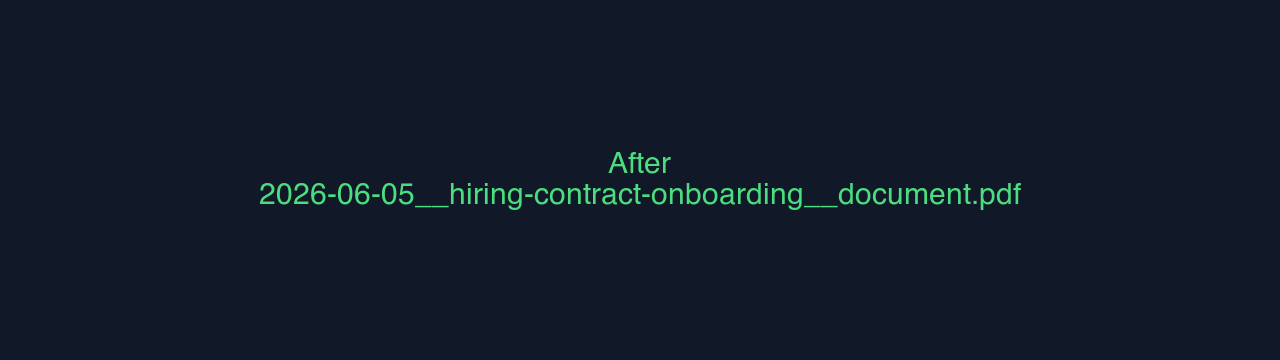
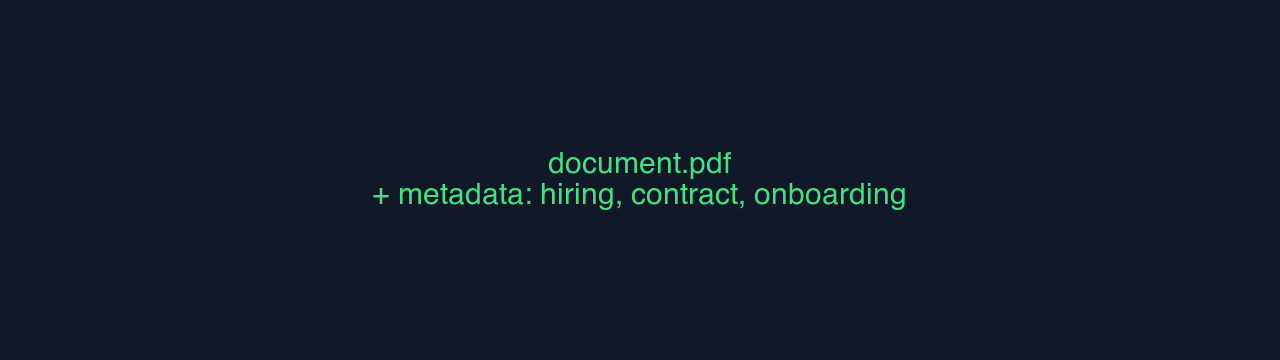
Make docs enrich-only by default and never touch good filenames.
Screenshots still rename; docs only get metadata on obvious junk names, skip when tags are weak or metadata already exists, and leave PDF Keywords untouched when set.

Changed region(s): [[0.1875, 0.4889, 0.8125, 0.5806], [0.4062, 0.4278, 0.5938, 0.4889]]

diff --git a/bin/auto_file_labeler.py b/bin/auto_file_labeler.py
@@ -44,6 +44,9 @@ DEFAULT_CONFIG = {
     "timeout": 30,
     "recursive": False,
     "process_docs": True,
+    "doc_rename": "never",
+    "doc_finder_tags": False,
+    "doc_pdf_keywords": True,
 }
 
 IMAGE_EXTS = {".png", ".jpg", ".jpeg", ".gif", ".webp", ".heic"}
@@ -59,9 +62,10 @@ MAX_IMAGE_OCR_BYTES = 50 * 1024 * 1024
 MAX_DOC_TEXT_BYTES = 10 * 1024 * 1024
 MAX_DOC_EXCERPT_CHARS = 2000
 GENERIC_DOC_STEMS = {
-    "document", "untitled", "scan", "scanned", "file", "download", "notes",
-    "new", "copy", "temp", "draft", "export", "report", "invoice", "receipt",
+    "document", "untitled", "scan", "scanned", "file", "download",
+    "new", "copy", "temp", "draft",
 }
+FINDER_TAG_XATTR = "com.apple.metadata:_kMDItemUserTags"
 MAX_DOCX_XML_BYTES = 2 * 1024 * 1024
 REQUIRED_BINARIES = {
     "magick": "/opt/homebrew/bin/magick",
@@ -199,6 +203,30 @@ def validate_config(cfg: dict) -> dict:
         else:
             log(f"warning: invalid config process_docs, coerced to {coerced}")
             cfg["process_docs"] = coerced
+
+    doc_rename = cfg.get("doc_rename")
+    if doc_rename not in {"never", "generic_only"}:
+        log("warning: invalid config doc_rename, using default")
+        cfg["doc_rename"] = DEFAULT_CONFIG["doc_rename"]
+
+    for flag in ("doc_finder_tags", "doc_pdf_keywords"):
+        value = cfg.get(flag)
+        if not isinstance(value, bool):
+            coerced = None
+            if isinstance(value, str):
+                lowered = value.strip().lower()
+                if lowered in {"true", "1", "yes", "on"}:
+                    coerced = True
+                elif lowered in {"false", "0", "no", "off"}:
+                    coerced = False
+            elif isinstance(value, int) and value in (0, 1):
+                coerced = bool(value)
+            if coerced is None:
+                log(f"warning: invalid config {flag}, using default")
+                cfg[flag] = DEFAULT_CONFIG[flag]
+            else:
+                log(f"warning: invalid config {flag}, coerced to {coerced}")
+                cfg[flag] = coerced
 
     return cfg
 
@@ -599,6 +627,84 @@ def write_xattrs(path: Path, labels: list[str]) -> bool:
     return True
 
 
+def already_enriched(path: Path) -> bool:
+    try:
+        proc = subprocess.run(
+            [resolve_bin("xattr"), "-p", "user.floomlens.labels", str(path)],
+            check=False, capture_output=True, text=True, timeout=5,
+        )
+        return proc.returncode == 0 and bool(proc.stdout.strip())
+    except (subprocess.SubprocessError, OSError, FileNotFoundError):
+        return False
+
+
+def exiftool_field(path: Path, field: str) -> str:
+    try:
+        proc = subprocess.run(
+            [resolve_bin("exiftool"), f"-{field}", "-s3", str(path)],
+            check=False, capture_output=True, text=True, timeout=10,
+        )
+        if proc.returncode == 0:
+            return proc.stdout.strip()
+    except (subprocess.SubprocessError, OSError, FileNotFoundError):
+        pass
+    return ""
+
+
+def write_pdf_keywords(path: Path, labels: list[str], cfg: dict) -> bool:
+    if not cfg.get("doc_pdf_keywords", True) or path.suffix.lower() != ".pdf":
+        return True
+    if exiftool_field(path, "PDF:Keywords") or exiftool_field(path, "Subject"):
+        return True
+    joined = ", ".join(labels)
+    try:
+        proc = subprocess.run(
+            [
+                resolve_bin("exiftool"), "-q", "-overwrite_original",
+                f"-PDF:Keywords={joined}", f"-Subject={joined}", str(path),
+            ],
+            check=False, capture_output=True, timeout=10,
+        )
+        if proc.returncode != 0:
+            err = proc.stderr.decode("utf-8", errors="replace").strip()[:200] or "unknown error"
+            log(f"pdf keywords skipped for {path.name}: exit {proc.returncode}: {err}")
+    except (subprocess.SubprocessError, OSError, FileNotFoundError) as e:
+        log(f"pdf keywords skipped for {path.name}: {type(e).__name__}: {e}")
+    return True
+
+
+def write_finder_tags(path: Path, labels: list[str], cfg: dict) -> bool:
+    if not cfg.get("doc_finder_tags", False):
+        return True
+    tag_bin = shutil.which("tag")
+    if not tag_bin:
+        return True
+    try:
+        proc = subprocess.run(
+            [tag_bin, "-a", *labels, str(path)],
+            check=False, capture_output=True, text=True, timeout=10,
+        )
+        if proc.returncode != 0:
+            err = proc.stderr.strip()[:200] or "unknown error"
+            log(f"finder tags skipped for {path.name}: exit {proc.returncode}: {err}")
+    except (subprocess.SubprocessError, OSError, FileNotFoundError) as e:
+        log(f"finder tags skipped for {path.name}: {type(e).__name__}: {e}")
+    return True
+
+
+def write_doc_metadata(path: Path, labels: list[str], cfg: dict) -> bool:
+    if not write_xattrs(path, labels):
+        return False
+    write_pdf_keywords(path, labels, cfg)
+    write_finder_tags(path, labels, cfg)
+    index_spotlight(path)
+    return True
+
+
+def should_rename_doc(path: Path, cfg: dict) -> bool:
+    return cfg.get("doc_rename") == "generic_only" and is_generic_document_name(path)
+
+
 def unique_path(path: Path) -> Path:
     if not path.exists():
         return path
@@ -611,8 +717,11 @@ def unique_path(path: Path) -> Path:
         i += 1
 
 
-def maybe_rename(path: Path, labels: list[str], cfg: dict) -> Path:
-    if not cfg.get("rename", True):
+def maybe_rename(path: Path, labels: list[str], cfg: dict, *, kind: str = "image") -> Path:
+    if kind == "doc":
+        if not should_rename_doc(path, cfg):
+            return path
+    elif not cfg.get("rename", True):
         return path
     date = dt.datetime.fromtimestamp(path.stat().st_mtime).strftime("%Y-%m-%d")
     label_str = "-".join(labels[: cfg.get("max_labels", 4)]) or "file"
@@ -682,18 +791,18 @@ def is_fresh_screenshot(path: Path) -> bool:
     return False
 
 
-def is_fresh_document(path: Path) -> bool:
-    """Return True for docs with generic/downloaded filenames worth auto-labeling."""
-    if is_already_tagged(path):
-        return False
+def is_generic_document_name(path: Path) -> bool:
     stem = path.stem.lower()
     if stem in GENERIC_DOC_STEMS:
         return True
-    if stem.startswith(("document", "untitled", "scan", "file ", "download")):
-        return True
-    if re.fullmatch(r"\d{13,}", path.stem):
-        return True
-    return False
+    return stem.startswith(("document", "untitled", "scan", "file ", "download"))
+
+
+def is_fresh_document(path: Path) -> bool:
+    """Return True only for docs with obviously worthless filenames."""
+    if is_already_tagged(path) or already_enriched(path):
+        return False
+    return is_generic_document_name(path)
 
 
 def file_kind(path: Path, cfg: dict) -> str | None:
@@ -742,6 +851,7 @@ def process_file(path: Path, cfg: dict, conn: sqlite3.Connection) -> tuple[bool,
             return False, False
 
     labels = [base_label(path)]
+    ai_tags: list[str] = []
 
     if kind == "image":
         if path.stat().st_size > MAX_IMAGE_OCR_BYTES:
@@ -759,17 +869,14 @@ def process_file(path: Path, cfg: dict, conn: sqlite3.Connection) -> tuple[bool,
     else:
         if path.stat().st_size > MAX_DOC_TEXT_BYTES:
             log(f"skip doc text {path.name}: file exceeds 10MB")
-        else:
-            txt = extract_doc_text(path)
-            ai_tags = text_model_tags(txt, cfg)
-            if not ai_tags:
-                if txt.strip():
-                    log(f"model returned no tags for {path.name}")
-                else:
-                    log(f"doc text empty for {path.name}")
-                labels.extend(name_hints(path))
-            else:
-                labels.extend(ai_tags)
+            return False, False
+        txt = extract_doc_text(path)
+        if not txt.strip():
+            return False, False
+        ai_tags = text_model_tags(txt, cfg)
+        if not ai_tags:
+            return False, False
+        labels.extend(ai_tags)
 
     # Deduplicate and sanitize
     uniq = []
@@ -810,11 +917,10 @@ def process_file(path: Path, cfg: dict, conn: sqlite3.Connection) -> tuple[bool,
                 pass
             return False, True
     else:
-        if not write_xattrs(path, uniq):
-            log(f"warning: metadata write failed for {path.name}, skipping rename and DB update")
+        if not write_doc_metadata(path, uniq, cfg):
             return False, True
 
-    new_path = maybe_rename(path, uniq, cfg)
+    new_path = maybe_rename(path, uniq, cfg, kind=kind)
     metadata_failed = False
 
     if kind == "image":
@@ -845,7 +951,7 @@ def process_file(path: Path, cfg: dict, conn: sqlite3.Connection) -> tuple[bool,
     )
     if str(new_path) != str(path):
         conn.execute("DELETE FROM files WHERE path = ?", (str(path),))
-    log(f"labeled: {new_path.name} -> {uniq}")
+    log(f"{'labeled' if kind == 'image' else 'enriched'}: {new_path.name} -> {uniq}")
     return True, metadata_failed
 
 
@@ -1002,14 +1108,26 @@ def __test__() -> int:
     assert is_fresh_document(tagged) is False
     assert is_fresh_document(Path("document.pdf")) is True
     assert is_fresh_document(Path("hiring-contract-2026.pdf")) is False
+    assert is_fresh_document(Path("a8f3k2j1.pdf")) is False
     assert is_fresh_screenshot(Path("Screenshot 2026-06-05 at 11.54.13 AM.png")) is True
+    assert should_rename_doc(Path("document.pdf"), {"doc_rename": "never"}) is False
+    assert should_rename_doc(Path("document.pdf"), {"doc_rename": "generic_only"}) is True
 
     with tempfile.TemporaryDirectory() as td:
-        note = Path(td) / "notes.md"
-        note.write_text("# Hiring\nSales pipeline summary\n", encoding="utf-8")
-        assert "hiring" in extract_plain_text(note).lower()
+        note = Path(td) / "document.pdf"
+        note.write_bytes(b"%PDF-1.4 placeholder")
+        assert file_kind(note, {"process_docs": True}) == "doc"
+        assert file_kind(Path(td) / "hiring-contract-2026.pdf", {"process_docs": True}) is None
+        assert file_kind(Path("Screenshot 2026-05-01.png"), {"process_docs": True}) == "image"
+        assert file_kind(note, {"process_docs": False}) is None
+        assert file_kind(Path(td) / "notes.md", {"process_docs": True}) is None
 
-        docx = Path(td) / "report.docx"
+        plain = Path(td) / "untitled.md"
+        plain.write_text("# Hiring\nSales pipeline summary\n", encoding="utf-8")
+        assert "hiring" in extract_plain_text(plain).lower()
+        assert file_kind(plain, {"process_docs": True}) == "doc"
+
+        docx = Path(td) / "document.docx"
         with zipfile.ZipFile(docx, "w") as zf:
             zf.writestr(
                 "word/document.xml",
@@ -1019,11 +1137,6 @@ def __test__() -> int:
                 "</w:document>",
             )
         assert "revenue" in extract_docx_text(docx).lower()
-
-        assert file_kind(note, {"process_docs": True}) == "doc"
-        assert file_kind(Path(td) / "hiring-contract-2026.pdf", {"process_docs": True}) is None
-        assert file_kind(Path("Screenshot 2026-05-01.png"), {"process_docs": True}) == "image"
-        assert file_kind(note, {"process_docs": False}) is None
 
     print("tests passed")
     return 0

diff --git a/README.md b/README.md
@@ -33,15 +33,14 @@ Tagme reads the text on screen, understands the context, and writes tags into th
 
 ### Documents (v0.2)
 
-| Before | After |
+| Before | After (filename unchanged) |
 |---|---|
-| `document.pdf` | `2026-06-05__hiring-contract-onboarding__document.pdf` |
-| `Untitled.docx` | `2026-06-05__quarterly-revenue-report__untitled.docx` |
-| `notes.md` | `2026-06-05__product-roadmap-q3__notes.md` |
+| `document.pdf` | `document.pdf` + searchable metadata |
+| `Untitled.docx` | `Untitled.docx` + searchable metadata |
 
-![Document rename demo](docs/examples/doc-rename.gif)
+Tags are written to xattrs and PDF Keywords/Subject (Spotlight). Filename stays the same unless you set `doc_rename: generic_only`.
 
-Docs use text extraction (not vision). Only generic filenames are processed — files you already named well are left alone.
+![Document enrich demo](docs/examples/doc-rename.gif)
 
 ---
 
@@ -49,10 +48,23 @@ Docs use text extraction (not vision). Only generic filenames are processed — 
 
 | Version | Scope | Status |
 |---|---|---|
-| **v0.1** | Screenshots & generic camera images (OCR + vision) | Shipped |
-| **v0.2** | Documents on ingest: `.pdf`, `.docx`, `.txt`, `.md` (text extraction) | Shipped |
+| **v0.1** | Screenshots & generic camera images (OCR + vision, rename) | Shipped |
+| **v0.2** | Docs with junk names only: enrich metadata, keep filename | Shipped |
 
-Tagme watches for **new files with generic names** — not your entire archive. Files you already named intentionally are left alone.
+Tagme watches for **new files with useless names**. Files you already named well are never touched.
+
+### Safety rules (docs)
+
+- **Never renames docs by default** (`doc_rename: never`)
+- Only touches obvious junk: `document.pdf`, `Untitled.docx`, `scan.pdf`
+- Skips meaningful names like `Q3-Report-Acme.pdf`
+- Skips random strings like `a8f3k2j1.pdf`
+- Skips files already enriched (won't re-tag)
+- Skips if it can't extract text or get good tags (no garbage labels)
+- Never deletes files
+- PDF Keywords only written if empty (won't overwrite yours)
+
+Screenshots are different: those names are useless, so rename is the feature.
 
 ---
 
@@ -78,13 +90,11 @@ Tagme watches for **new files with generic names** — not your entire archive. 
 6. **Search** — Spotlight (`mdfind`), Finder, terminal, or any AI agent
 
 ### Documents (v0.2)
-1. **Detect** — Generic doc names like `document.pdf`, `Untitled.docx`, `scan.pdf`
-2. **Extract** — Text from `.txt`/`.md` directly; `.pdf` via `pdftotext` or macOS `textutil`; `.docx` via built-in parser
-3. **Tag** — Local text model generates 4 content tags (no vision)
-4. **Write** — Tags go into **filename**, **xattrs**, and SQLite
-5. **Search** — Finder and terminal by filename; xattrs for programmatic access
-
-**Docs do not get EXIF metadata.** Spotlight content search for docs relies on macOS's native indexing of the renamed filename.
+1. **Detect** — Only junk doc names like `document.pdf`, `Untitled.docx`, `scan.pdf`
+2. **Extract** — Text from `.txt`/`.md` directly; `.pdf` via `pdftotext` or `textutil`; `.docx` via built-in parser
+3. **Tag** — Local text model generates 4 content tags (no vision). Skips if tags aren't good enough.
+4. **Enrich** — Tags go into **xattrs** and **PDF Keywords** (if empty). Filename unchanged by default.
+5. **Search** — Spotlight picks up PDF keywords; terminal/agents can read xattrs
 
 ---
 
@@ -163,7 +173,10 @@ xattr -p user.floomlens.labels ~/Desktop/2026-06-05__finance*.png
   "endpoint": "http://127.0.0.1:11434/api/generate",
   "timeout": 60,
   "recursive": false,
-  "process_docs": true
+  "process_docs": true,
+  "doc_rename": "never",
+  "doc_finder_tags": false,
+  "doc_pdf_keywords": true
 }
 ```
 
@@ -176,7 +189,10 @@ xattr -p user.floomlens.labels ~/Desktop/2026-06-05__finance*.png
 | `model` | Ollama model name (vision for images, text for docs) |
 | `timeout` | Model inference timeout in seconds |
 | `recursive` | Scan subdirectories? |
-| `process_docs` | Enable v0.2 document labeling (`.pdf`, `.docx`, `.txt`, `.md`) |
+| `process_docs` | Enable v0.2 document enrichment (`.pdf`, `.docx`, `.txt`, `.md`) |
+| `doc_rename` | `never` (default) or `generic_only` |
+| `doc_finder_tags` | Write visible Finder tags (off by default) |
+| `doc_pdf_keywords` | Write PDF Keywords/Subject when empty (on by default) |
 
 ---
 
@@ -202,7 +218,10 @@ A: Yes. Tested on M2 Macs. Ollama uses the GPU for inference.
 A: No. It fingerprints files by content (size + mtime + inode). Renamed files are not reprocessed.
 
 **Q: Will it rename files I already named well?**  
-A: No. Only generic filenames (`Screenshot …`, `document.pdf`, `IMG_…`, etc.) are processed.
+A: No. Docs keep their filename by default. Only obvious junk names get enriched. Screenshots with useless names get renamed.
+
+**Q: Will it touch my `Q3-Report.pdf`?**  
+A: No. Meaningful filenames are skipped entirely.
 
 **Q: Can it search my old buried documents?**  
 A: Not yet. Tagme labels new files on ingest. Retroactive backfill is planned.
